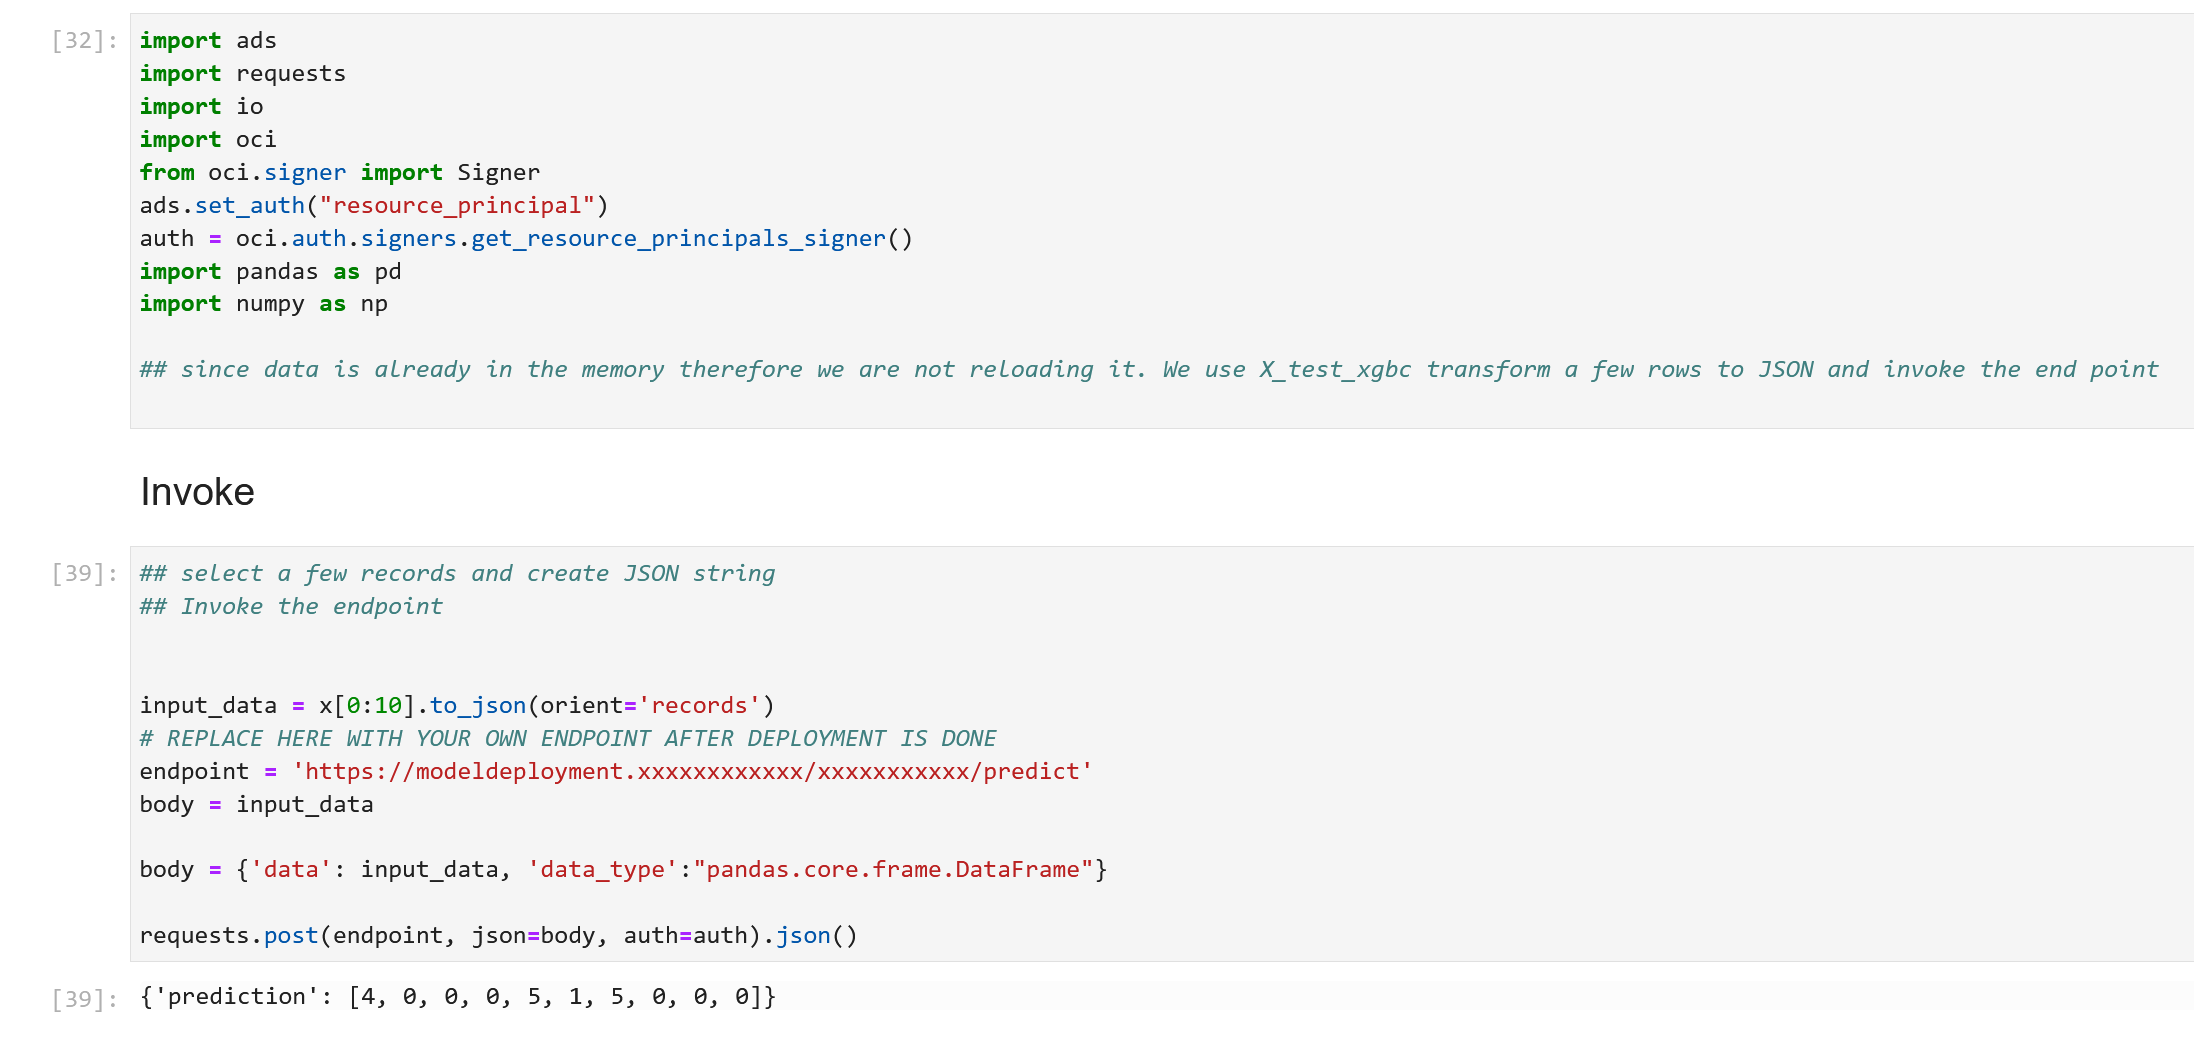
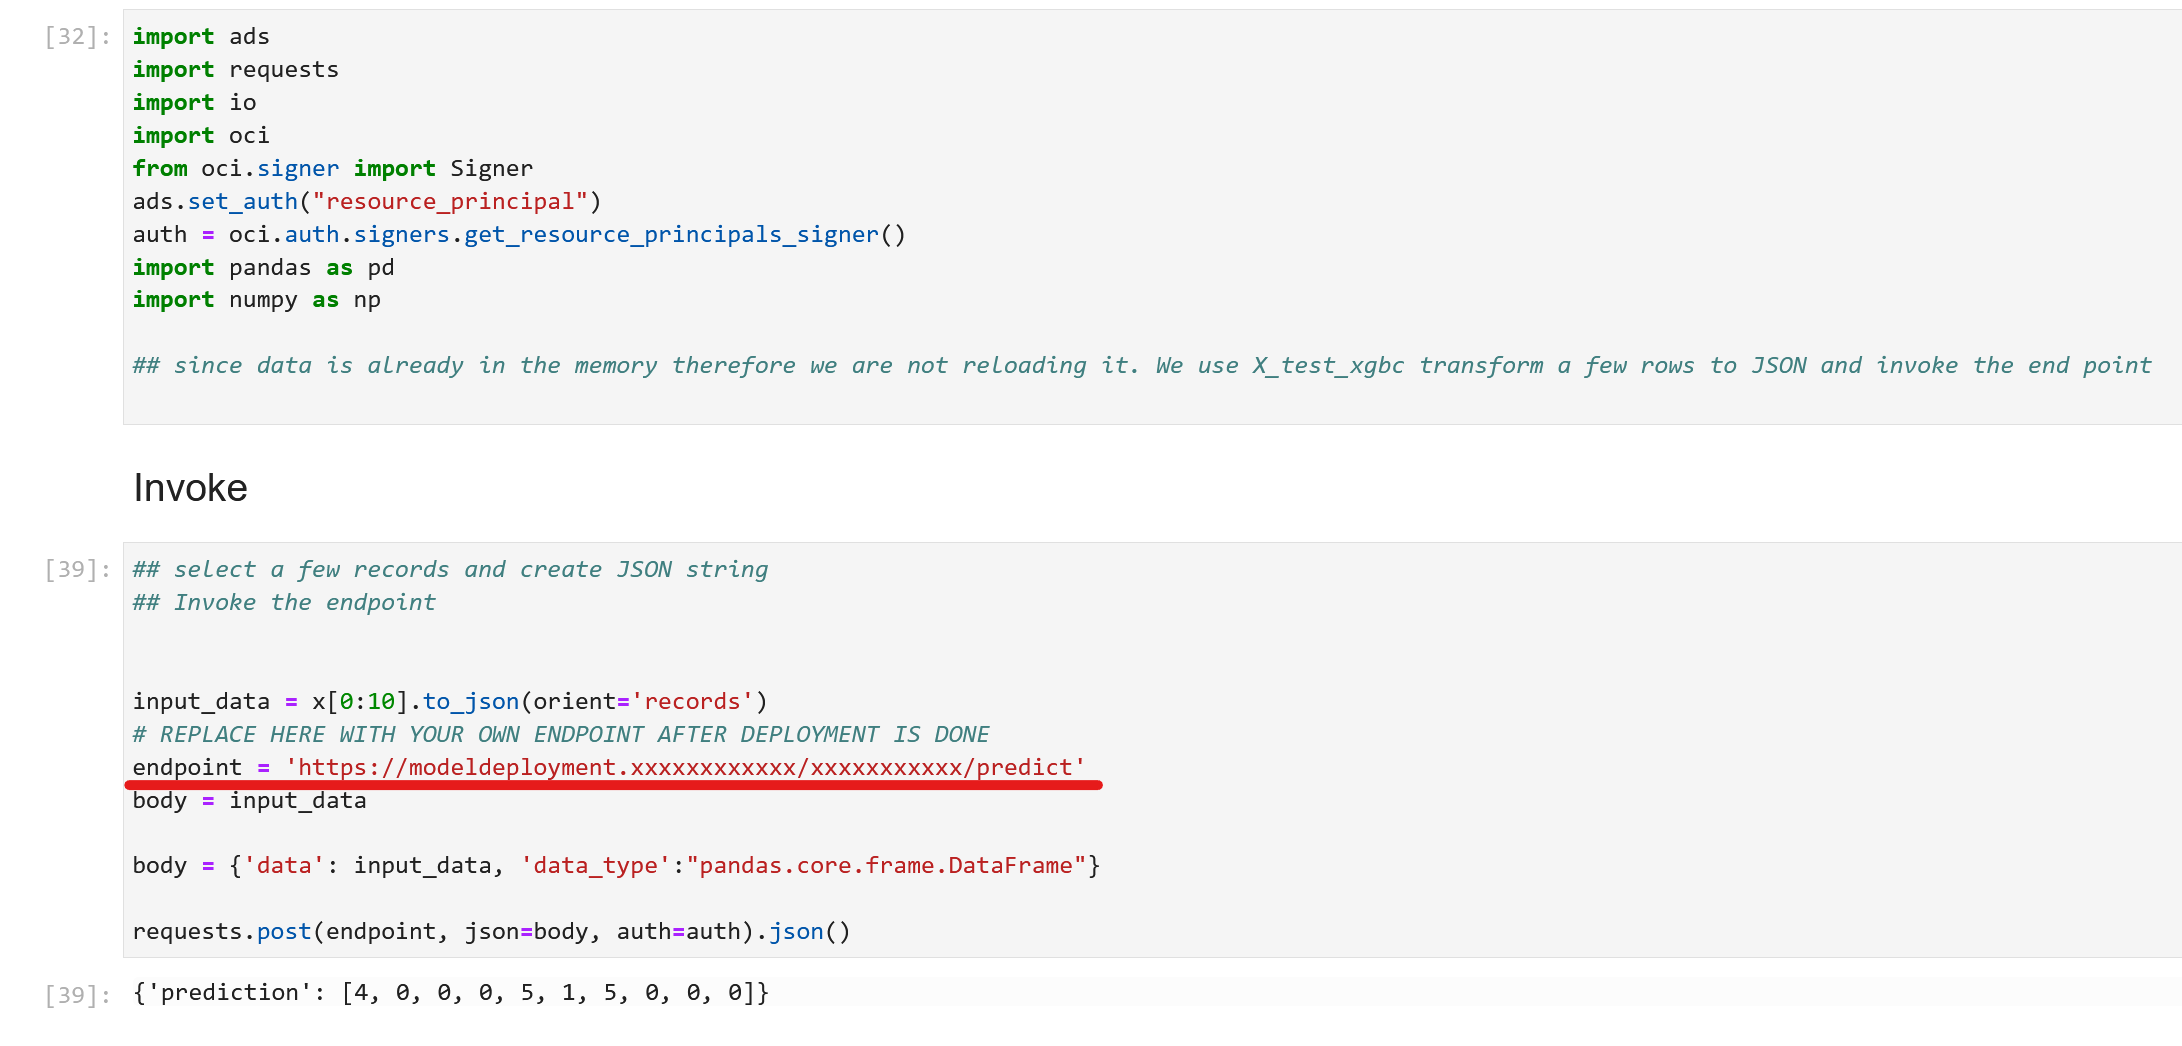
feat: improved modeldeployment.md

diff --git a/hols/pitstrategy/modeldeployment/modeldeployment.md b/hols/pitstrategy/modeldeployment/modeldeployment.md
@@ -70,15 +70,27 @@ We take a look at the model's summary status to see whether everything is OK and
 
 > Note: when a model is deployed, a Load Balancer is automatically created to support and monitor traffic and prevent the model from overloading due to receiving too many calls.
 
+These models and model deployments are accessible from the OCI Panel, and can be stopped, restarted, updated and deleted whenever we need:
+
+![](./images/models.png)
+
+![](./images/model_deployments.png)
+
+From within the model deployment, we can extract the endpoint API: 
+
+![](./images/invoking_endpoint_url.png)
+
+This endpoint is the one we'll call in the following task to get prediction results from our model.
 
 ## Task 6: Invoking Endpoint from anywhere
 
-We take the model's OCID that was returned to us when we saved the model to the catalog, and perform this call:
+We take the model's OCID from the previous task and make the HTTP request to get results:
 
 ![](./images/invoking_endpoint.png)
 
-We see that the model has returned ten different predictions for the 10 rows we made requests for. Notice that we can make as many row-requests as we want within the same API call.
+We see that the model has returned ten different predictions for the 10 rows we made requests for.
 
+> Notice that we can make as many row-requests as we want within the same API call.
 
 ## Task 7: Destroying Model (Optional)
 
